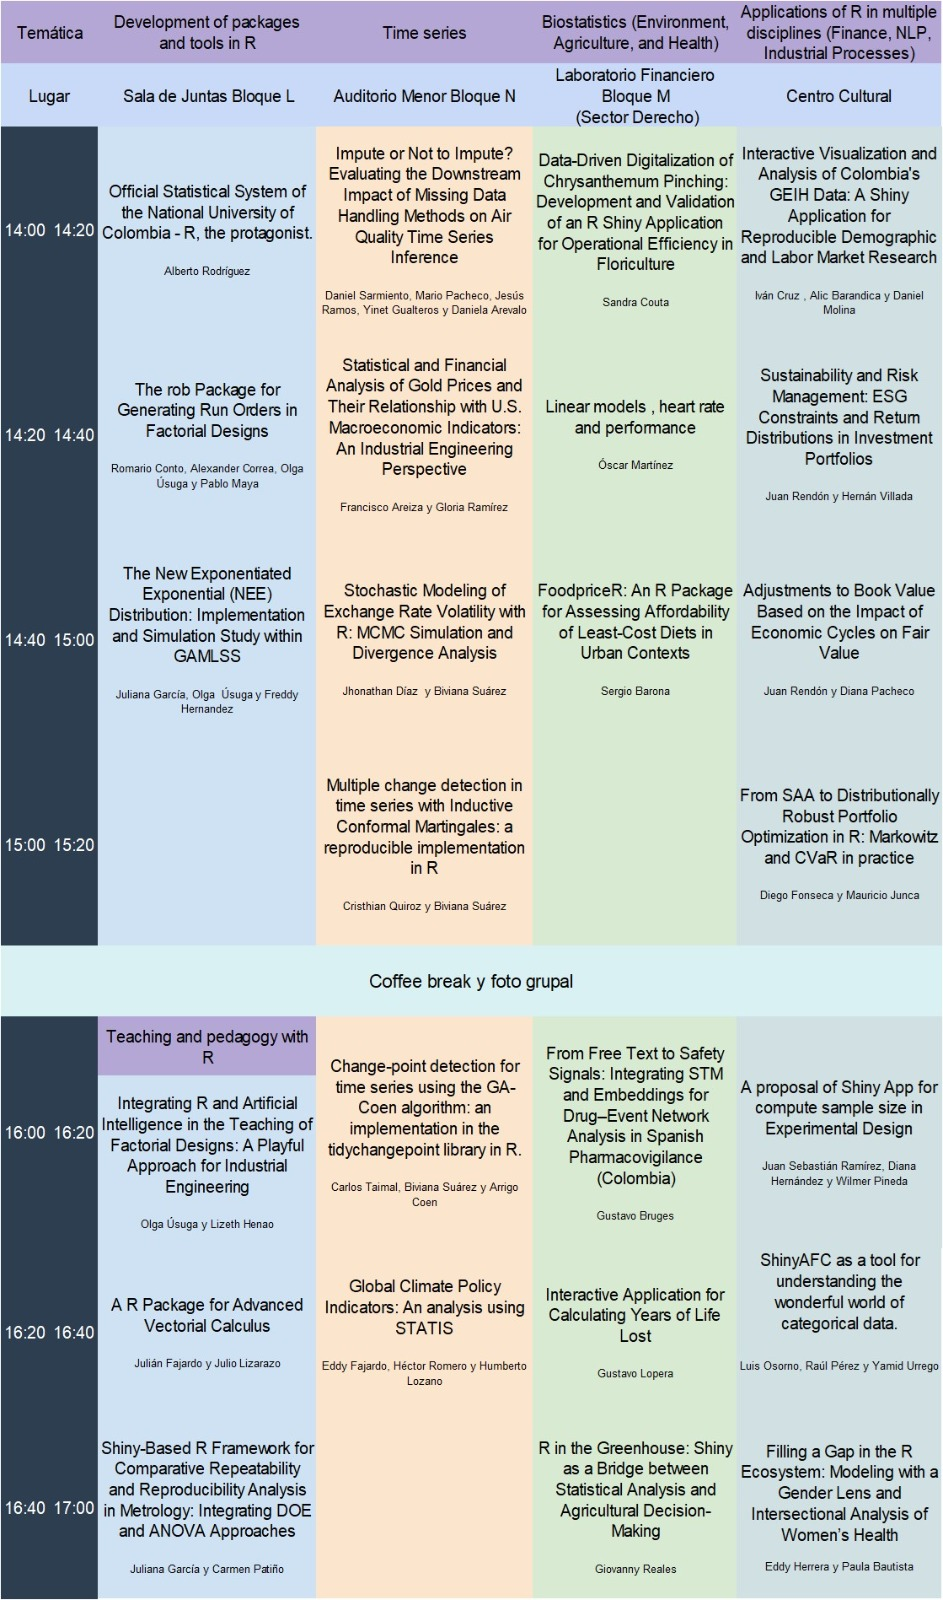
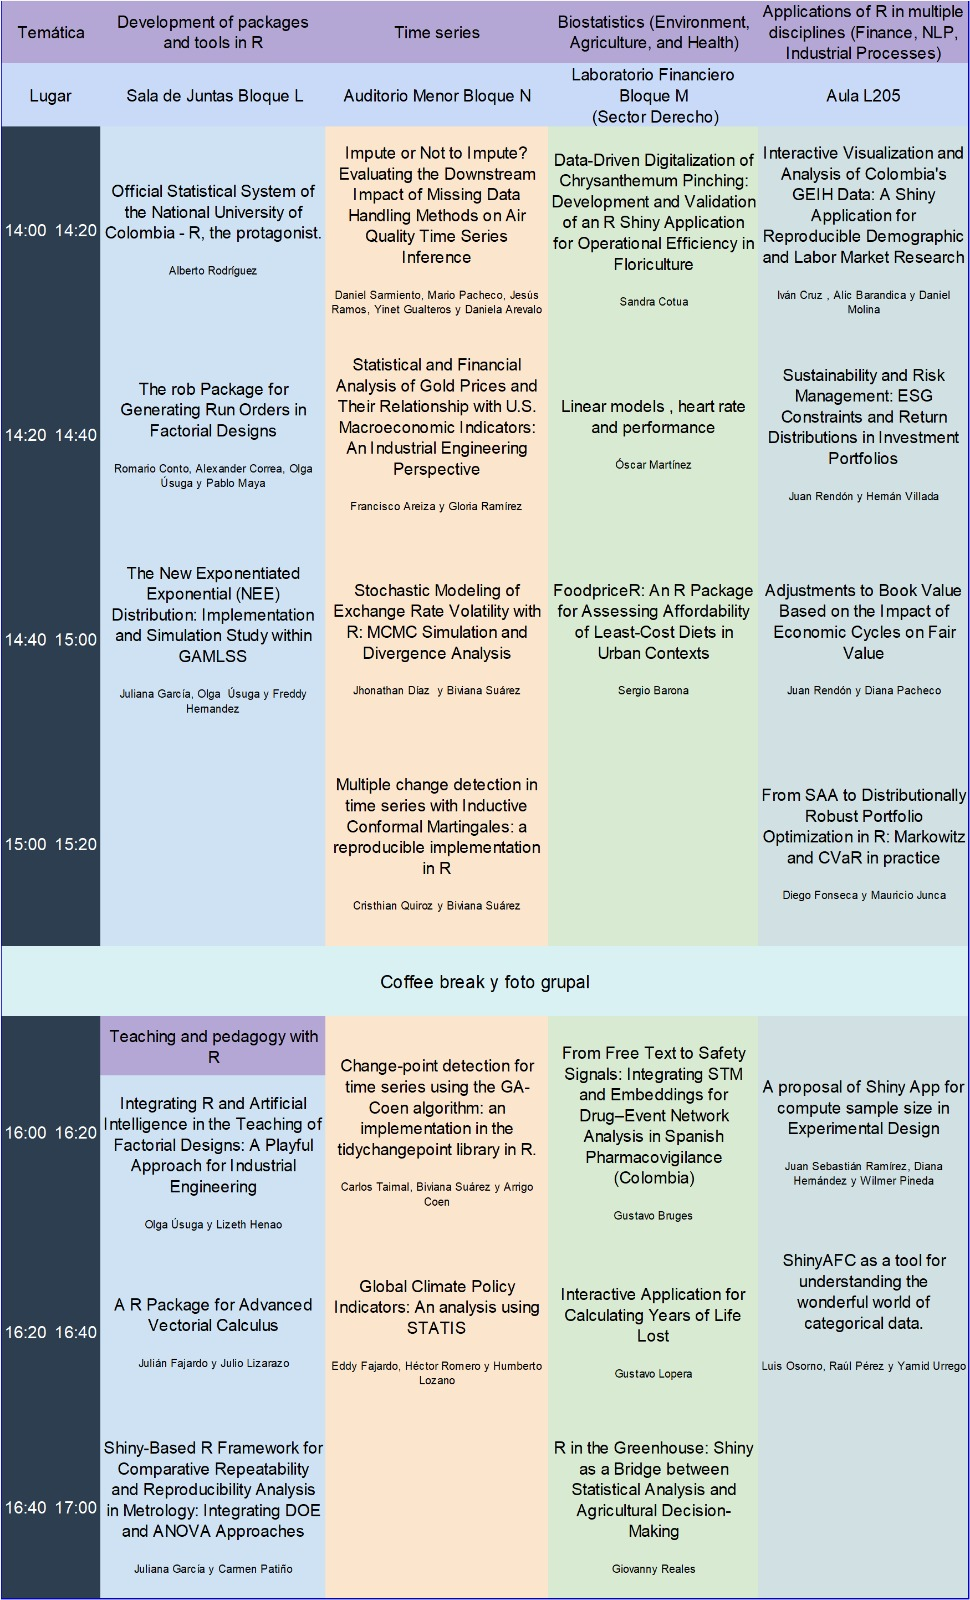
nuevos programas

diff --git a/programa.html b/programa.html
@@ -371,7 +371,7 @@ $(document).ready(function () {
 
 
 <p>Abajo se encuentra el programa general del evento.</p>
-<p><img src="imagenes/prog_general.png" alt="Programa"></p>
+<p><img src="imagenes/prog_general.jpeg" alt="Programa"></p>
 
 <br>
 <hr>
